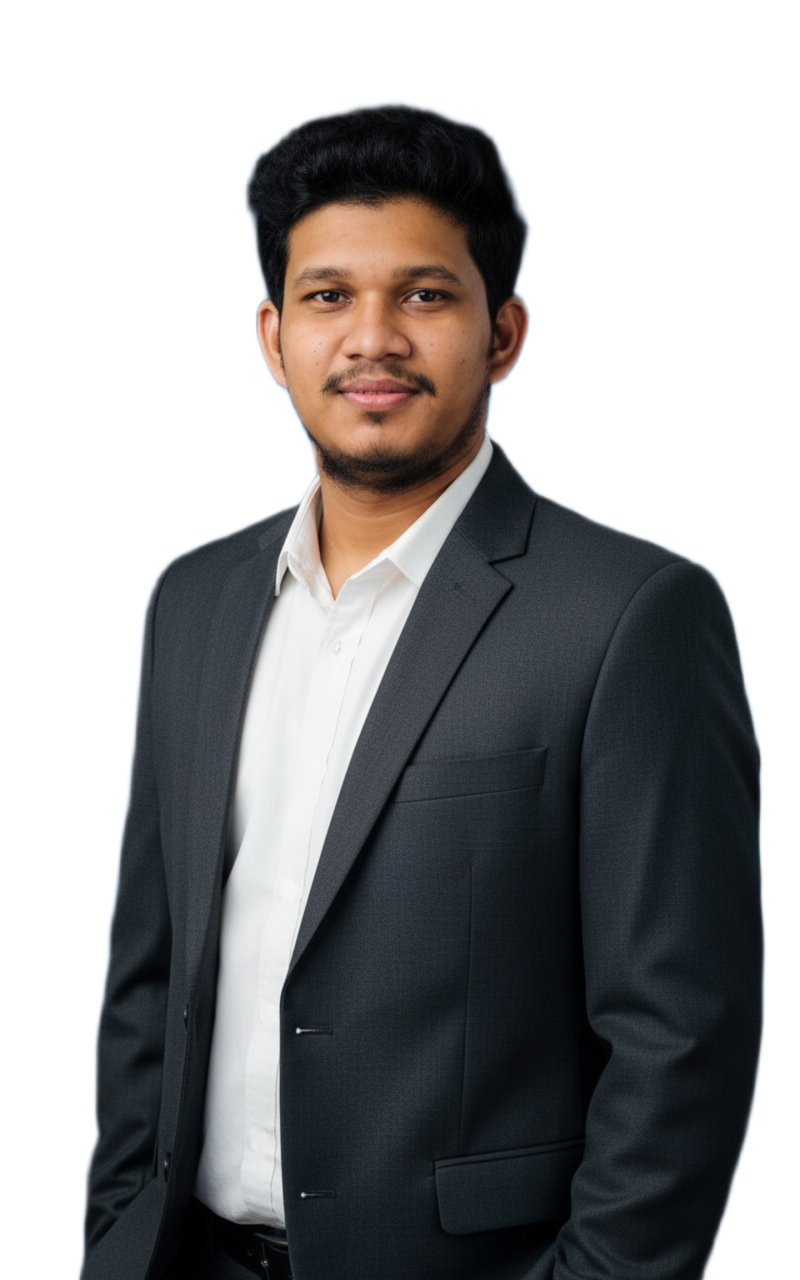
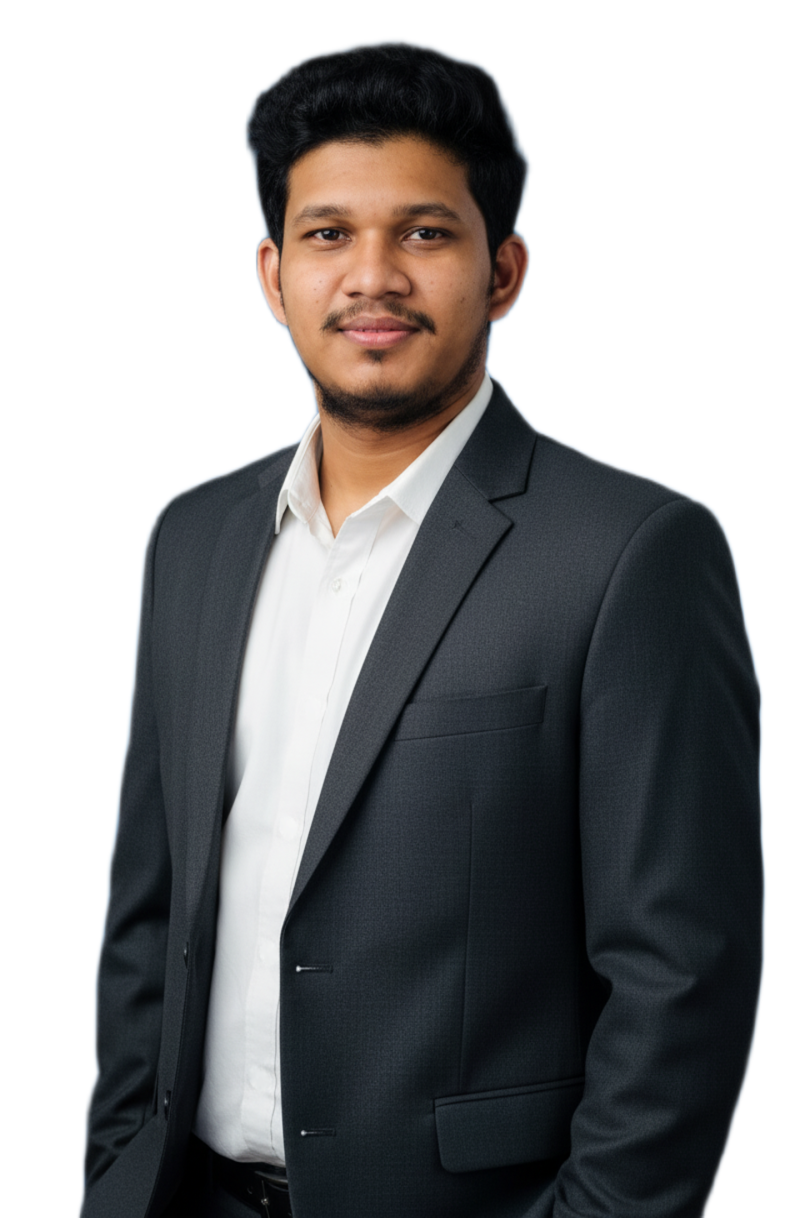
solve issues

diff --git a/src/app/(main)/page.tsx b/src/app/(main)/page.tsx
@@ -8,7 +8,7 @@ export default function Page() {
                 <h2 className="kaushan lg:text-4xl md:text:2xl text-xl  ">My name is Mahmud Hasan Siddique. I am working as a</h2>
                 <h1 className="lg:text-8xl md:text-5xl text-4xl londrina font-extrabold text-transparent">Full Stack Developer</h1>
             </div>
-            <div>
+            <div className="">
                 <Image src={myImage} alt="" className="w-[26rem] mx-auto"></Image>
             </div>
         </div>

diff --git a/src/app/layout.tsx b/src/app/layout.tsx
@@ -46,7 +46,7 @@ export default function RootLayout({
         <div className="relative container text-white top-16">
           {children}
         </div>
-        <div className="relative text-white container top-2 bottom-0 ">
+        <div className="relative text-white container top-6 bottom-0 ">
           <Navbar></Navbar>
         </div>
       </body>
